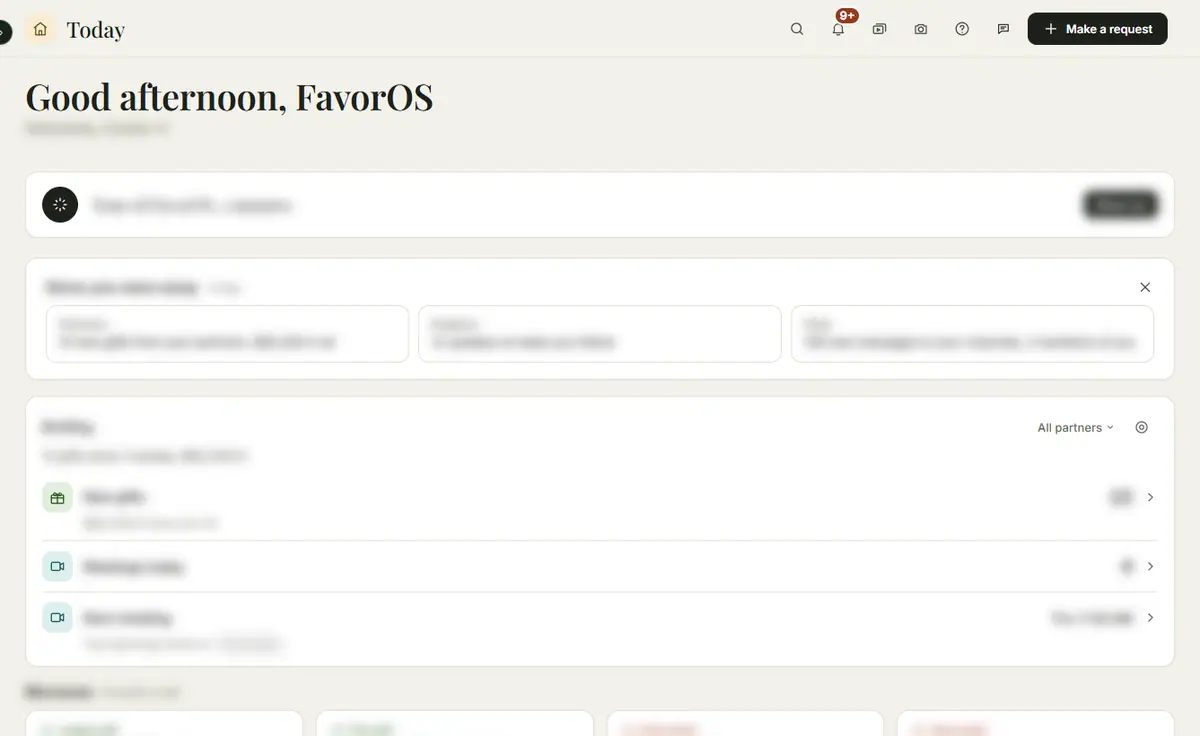
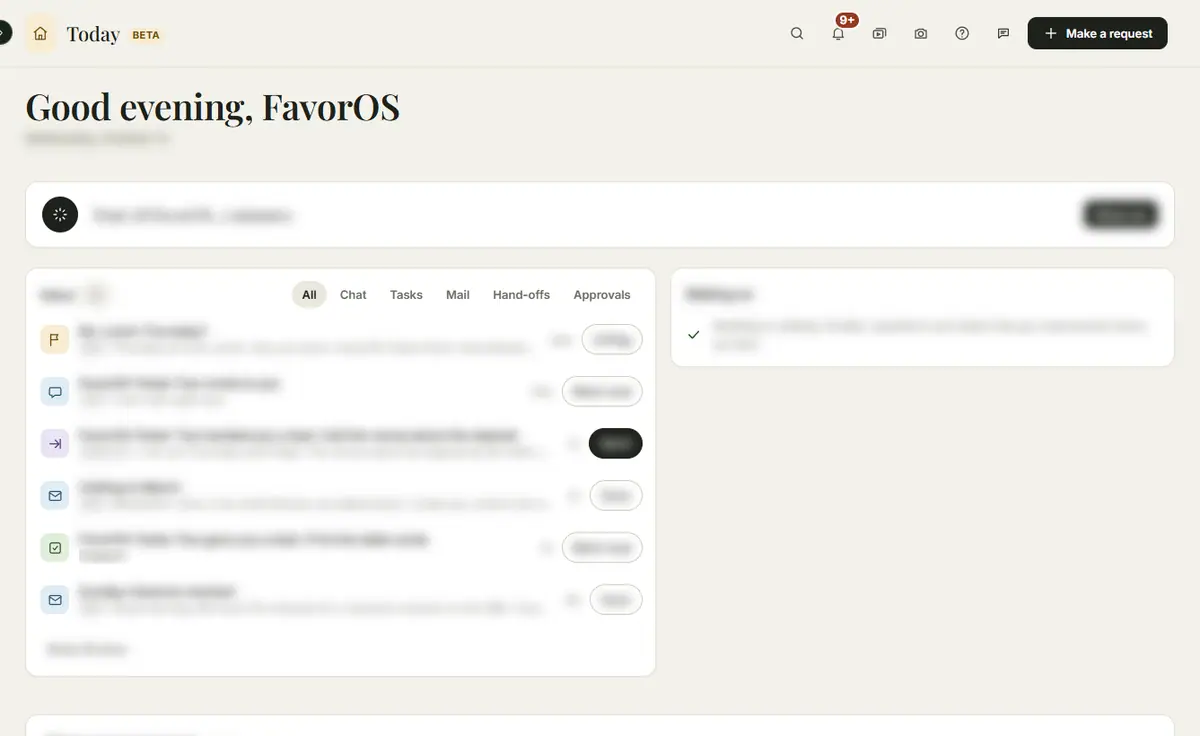
Today: Gifts to thank leaves out the gifts the New gifts card shows; What's new for Your work

diff --git a/public/js/work-home.js b/public/js/work-home.js
@@ -178,8 +178,16 @@
   }
 
   /* ------------------------------------------------------------------ gifts to thank */
-  function paintGifts(w) {
+  // Today's New gifts card (data-today-slot="gifts", today-inbox.js) shows the newest gifts on your partners; those stay off this list.
+  const shownElsewhere = () => {
+    const slot = document.querySelector('[data-today-slot="gifts"]:not([hidden])');
+    return new Set(slot ? Array.from(slot.querySelectorAll('[data-gift]'), (el) => String(el.getAttribute('data-gift'))) : []);
+  };
+  document.addEventListener('fx-gifts-ready', () => { if (D) paintGifts(D.work); });
+  function paintGifts(w0) {
     const card = $('wh-gifts');
+    const skip = onToday ? shownElsewhere() : new Set();
+    const w = w0 && w0.gifts && skip.size ? Object.assign({}, w0, { gifts: Object.assign({}, w0.gifts, { rows: w0.gifts.rows.filter((r) => !skip.has(String(r.giftId))) }) }) : w0;
     const g = w && w.gifts;
     card.hidden = !g;
     if (!g) return;

diff --git a/src/content/changelog/2026-10-14.md b/src/content/changelog/2026-10-14.md
@@ -1,6 +1,16 @@
 ---
 date: "2026-10-14"
 entries:
+  - time: "20:10"
+    area: today
+    type: improved
+    text: "Today now holds your work. Under Needs you, Your work shows your actions due today and overdue with Complete and Snooze, the gifts waiting for your thank-you, your week, and your own recent changes with Undo. People who work the gift day also see its six numbers, and admins see the team table. The Work Overview page opens Today."
+    image: /changelog/2026-10-14/today-work-desk.webp
+    phone: /changelog/2026-10-14/today-work-phone.webp
+  - time: "20:10"
+    area: today
+    type: new
+    text: "Start something on Today has Log a contact and New task for any partner you find, and Start a deposit for the gift desk. Search has Log a contact too."
   - time: "19:10"
     area: partners
     type: new
